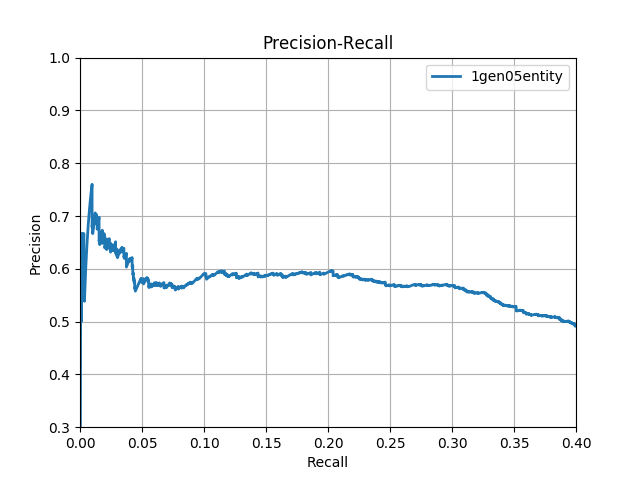
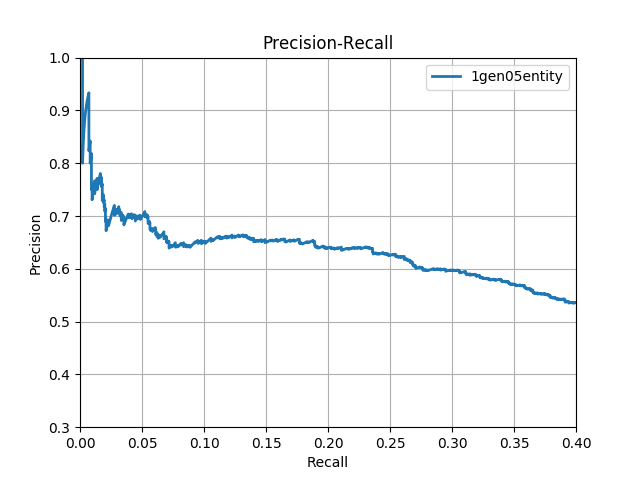
not mask unused

Changed region(s): [[0.125, 0.125, 0.8125, 0.6562], [0.7812, 0.5938, 0.875, 0.6562], [0.8438, 0.625, 0.9062, 0.6875]]

diff --git a/code/dataloader.py b/code/dataloader.py
@@ -111,9 +111,9 @@ class Dataloader:
 
             # process data
             self.instance_tot = len(data)
-            self.data_word = np.zeros((self.instance_tot, Config.sen_len), dtype=int)
-            self.data_pos1 = np.zeros((self.instance_tot, Config.sen_len), dtype=int)
-            self.data_pos2 = np.zeros((self.instance_tot, Config.sen_len), dtype=int)
+            # self.data_word = np.zeros((self.instance_tot, Config.sen_len), dtype=int)
+            # self.data_pos1 = np.zeros((self.instance_tot, Config.sen_len), dtype=int)
+            # self.data_pos2 = np.zeros((self.instance_tot, Config.sen_len), dtype=int)
             self.data_length = np.zeros((self.instance_tot, ), dtype=int)
             self.data_query = np.zeros((self.instance_tot, ), dtype=int)
             self.data_knowledge = np.zeros((self.instance_tot, Config.rel_num), dtype=float)
@@ -121,131 +121,129 @@ class Dataloader:
             self.data_input_ids = np.zeros((self.instance_tot, Config.sen_len), dtype=int)
             self.data_attention_mask = np.zeros((self.instance_tot, Config.sen_len), dtype=int)
             # for decoder
-            self.data_decoder_input_ids = np.zeros((self.instance_tot, Config.sen_len), dtype=int)
-            self.data_decoder_attention_mask = np.zeros((self.instance_tot, Config.sen_len), dtype=int)
+            # self.data_decoder_input_ids = np.zeros((self.instance_tot, Config.sen_len), dtype=int)
+            # self.data_decoder_attention_mask = np.zeros((self.instance_tot, Config.sen_len), dtype=int)
             self.data_token_mask = np.ones((self.instance_tot, Config.sen_len), dtype=int)
             self.data_between_entity_mask = np.zeros((self.instance_tot, Config.sen_len), dtype=int)
-            self.data_governor_mask = np.zeros((self.instance_tot, Config.sen_len), dtype=int)
+            # self.data_governor_mask = np.zeros((self.instance_tot, Config.sen_len), dtype=int)
 
             def _process_loop(i):
                 instance = data[i]
-                words = instance["sentence"].lower().split()
-                sentence = ''
-                for word in words:
-                    sentence += word 
-                    sentence += ' '
                 head = instance["head"]["word"]
                 tail = instance["tail"]["word"]
-                # try:
-                #     self.data_query[i] = rel2id[instance["relation"]]
-                # except:
-                #     self.data_query[i] = 0
-                #     print("relation error 1")
+                sentence = instance["sentence"]
+                try:
+                    self.data_query[i] = rel2id[instance["relation"]]
+                except:
+                    self.data_query[i] = 0
+                    print("relation error 1")
                 
-                p1 = sentence.find(' ' + head + ' ')
-                p2 = sentence.find(' ' + tail + ' ')
-                if p1 == -1:
-                    if sentence[:len(head) + 1] == head + " ":
-                        p1 = 0
-                    elif sentence[-len(head) - 1:] == " " + head:
-                        p1 = len(sentence) - len(head)
-                    else:
-                        p1 = 0 # shouldn't happen
-                else:
-                    p1 += 1
-                if p2 == -1:
-                    if sentence[:len(tail) + 1] == tail + " ":
-                        p2 = 0
-                    elif sentence[-len(tail) - 1:] == " " + tail:
-                        p2 = len(sentence) - len(tail)
-                    else:
-                        p2 = 0 # shouldn't happen
-                else:
-                    p2 += 1
+                # words = instance["sentence"].lower().split()
+                # sentence = ''
+                # for word in words:
+                #     sentence += word 
+                #     sentence += ' '
+                # p1 = sentence.find(' ' + head + ' ')
+                # p2 = sentence.find(' ' + tail + ' ')
+                # if p1 == -1:
+                #     if sentence[:len(head) + 1] == head + " ":
+                #         p1 = 0
+                #     elif sentence[-len(head) - 1:] == " " + head:
+                #         p1 = len(sentence) - len(head)
+                #     else:
+                #         p1 = 0 # shouldn't happen
+                # else:
+                #     p1 += 1
+                # if p2 == -1:
+                #     if sentence[:len(tail) + 1] == tail + " ":
+                #         p2 = 0
+                #     elif sentence[-len(tail) - 1:] == " " + tail:
+                #         p2 = len(sentence) - len(tail)
+                #     else:
+                #         p2 = 0 # shouldn't happen
+                # else:
+                #     p2 += 1
 
-                words = sentence.split()
-                cur_ref_data_word = self.data_word[i]         
-                cur_pos = 0
-                pos1 = -1
-                pos2 = -1
-                for j, word in enumerate(words):
-                    if j < Config.sen_len:
-                        word = word.lower()
-                        if word in word2id:
-                            cur_ref_data_word[j] = word2id[word]
-                        else:
-                            cur_ref_data_word[j] = 1
-                    if cur_pos == p1:
-                        pos1 = j
-                        p1 = -1
-                    if cur_pos == p2:
-                        pos2 = j
-                        p2 = -1
-                    cur_pos += len(word) + 1
-                for j in range(j + 1, Config.sen_len):
-                    cur_ref_data_word[j] = 0
-                # self.data_length[i] = len(words)
-                # if len(words) > Config.sen_len:
-                    # self.data_length[i] = Config.sen_len
-                if pos1 == -1 or pos2 == -1:
-                    raise Exception("[ERROR] Position error, index = {}, sentence = {}, head = {}, tail = {}".format(i, sentence, head, tail))
-                if pos1 >= Config.sen_len:
-                    pos1 = Config.sen_len - 1
-                if pos2 >= Config.sen_len:
-                    pos2 = Config.sen_len - 1
-                for j in range(Config.sen_len):
-                    self.data_pos1[i][j] = j - pos1 + Config.sen_len
-                    self.data_pos2[i][j] = j - pos2 + Config.sen_len
+                # words = sentence.split()
+                # cur_ref_data_word = self.data_word[i]         
+                # cur_pos = 0
+                # pos1 = -1
+                # pos2 = -1
+                # for j, word in enumerate(words):
+                #     if j < Config.sen_len:
+                #         word = word.lower()
+                #         if word in word2id:
+                #             cur_ref_data_word[j] = word2id[word]
+                #         else:
+                #             cur_ref_data_word[j] = 1
+                #     if cur_pos == p1:
+                #         pos1 = j
+                #         p1 = -1
+                #     if cur_pos == p2:
+                #         pos2 = j
+                #         p2 = -1
+                #     cur_pos += len(word) + 1
+                # for j in range(j + 1, Config.sen_len):
+                #     cur_ref_data_word[j] = 0
+                # if pos1 == -1 or pos2 == -1:
+                #     raise Exception("[ERROR] Position error, index = {}, sentence = {}, head = {}, tail = {}".format(i, sentence, head, tail))
+                # if pos1 >= Config.sen_len:
+                #     pos1 = Config.sen_len - 1
+                # if pos2 >= Config.sen_len:
+                #     pos2 = Config.sen_len - 1
+                # for j in range(Config.sen_len):
+                #     self.data_pos1[i][j] = j - pos1 + Config.sen_len
+                #     self.data_pos2[i][j] = j - pos2 + Config.sen_len
                 
-                # # for bert encoder
+                # for bert encoder
+                bert_tokens = tokenizer.tokenize(sentence)
+                head_tokens = tokenizer.tokenize(head)
+                tail_tokens = tokenizer.tokenize(tail)
+                head_pos = bert_tokens.index(head_tokens[0])
+                bert_tokens.insert(head_pos, "[unused0]")
+                bert_tokens.insert(head_pos+len(head_tokens)+1, "[unused1]")
+                tail_pos = bert_tokens.index(tail_tokens[0])
+                bert_tokens.insert(tail_pos, "[unused2]")
+                bert_tokens.insert(tail_pos+len(tail_tokens)+1, "[unused3]")
+                bert_tokens.insert(0, "[CLS]")
+                bert_tokens.append("[SEP]")
+                length = min(len(bert_tokens), Config.sen_len)
+                self.data_input_ids[i][0:length] = tokenizer.convert_tokens_to_ids(bert_tokens[0:length])
+                self.data_attention_mask[i][0:length] = 1
+                self.data_length[i] = length                
+                # for mask
                 # bert_tokens = tokenizer.tokenize(sentence)
-                # head_tokens = tokenizer.tokenize(head)
-                # tail_tokens = tokenizer.tokenize(tail)
-                # head_pos = bert_tokens.index(head_tokens[0])
-                # bert_tokens.insert(head_pos, "[unused0]")
-                # bert_tokens.insert(head_pos+len(head_tokens)+1, "[unused1]")
-                # tail_pos = bert_tokens.index(tail_tokens[0])
-                # bert_tokens.insert(tail_pos, "[unused2]")
-                # bert_tokens.insert(tail_pos+len(tail_tokens)+1, "[unused3]")
                 # bert_tokens.insert(0, "[CLS]")
                 # bert_tokens.append("[SEP]")
-                # length = min(len(bert_tokens), Config.sen_len)
-                # self.data_input_ids[i][0:length] = tokenizer.convert_tokens_to_ids(bert_tokens[0:length])
-                # self.data_attention_mask[i][0:length] = 1
-                # self.data_length[i] = length                
-                # # for mask
-                # bert_tokens = tokenizer.tokenize(sentence)
-                # bert_tokens.insert(0, "[CLS]")
-                # bert_tokens.append("[SEP]")
-                # head_pos = bert_tokens.index(head_tokens[0])
-                # tail_pos = bert_tokens.index(tail_tokens[0])
                 # length = min(len(bert_tokens), Config.sen_len)
                 # self.data_decoder_input_ids[i][0:length] = tokenizer.convert_tokens_to_ids(bert_tokens[0:length])
                 # self.data_decoder_attention_mask[i][0:length] = 1
-                # self.data_token_mask[i][head_pos:head_pos+len(head_tokens)] = 0
-                # self.data_token_mask[i][tail_pos:tail_pos+len(tail_tokens)] = 0
-                # if head_pos < tail_pos:
-                #     fir_pos = head_pos
-                #     sec_pos = tail_pos
-                #     len_fir = len(head_tokens)
-                # else:
-                #     fir_pos = tail_pos
-                #     sec_pos = head_pos
-                #     len_fir = len(tail_tokens)
-                # self.data_between_entity_mask[i][fir_pos+len_fir:sec_pos] = 1
+                head_pos = bert_tokens.index(head_tokens[0])
+                tail_pos = bert_tokens.index(tail_tokens[0])
+                self.data_token_mask[i][head_pos-1:head_pos+len(head_tokens)+1] = 0
+                self.data_token_mask[i][tail_pos-1:tail_pos+len(tail_tokens)+1] = 0
+                if head_pos < tail_pos:
+                    fir_pos = head_pos
+                    sec_pos = tail_pos
+                    len_fir = len(head_tokens)
+                else:
+                    fir_pos = tail_pos
+                    sec_pos = head_pos
+                    len_fir = len(tail_tokens)
+                self.data_between_entity_mask[i][fir_pos+len_fir+1:sec_pos-1] = 1
 
-                # # knowledge 
-                # entities = instance["head"]["id"]+"#"+instance["tail"]["id"]
-                # rels = knowledge[entities]
-                # rel_num = len(rels)
-                # # tot_prop = 1 if rel_num == 1 and rels[0] == "NA" else 0.95
-                # # na_prop = 0 if rel_num == 1 and rels[0] == "NA" else 0.05 
-                # for rel in rels:
-                #     try:
-                #         self.data_knowledge[i][rel2id[rel]] = 1 / rel_num
-                #     except:
-                #         self.data_knowledge[i][0] += 1 / rel_num
-                #         print("relation error 2")
+                # knowledge 
+                entities = instance["head"]["id"]+"#"+instance["tail"]["id"]
+                rels = knowledge[entities]
+                rel_num = len(rels)
+                # tot_prop = 1 if rel_num == 1 and rels[0] == "NA" else 0.95
+                # na_prop = 0 if rel_num == 1 and rels[0] == "NA" else 0.05 
+                for rel in rels:
+                    try:
+                        self.data_knowledge[i][rel2id[rel]] = 1 / rel_num
+                    except:
+                        self.data_knowledge[i][0] += 1 / rel_num
+                        print("relation error 2")
                 # self.data_knowledge[i][0] += na_prop
 
             print("begin multiple thread processing...")
@@ -253,21 +251,21 @@ class Dataloader:
             pool.map(_process_loop, range(0, self.instance_tot))
 
             # save array
-            np.save(os.path.join("../data/pre_processed_data", "word_vec.npy"), self.word_vec)
-            np.save(os.path.join("../data/pre_processed_data", dataset+"_"+mode+"_word.npy"), self.data_word)
-            np.save(os.path.join("../data/pre_processed_data", dataset+"_"+mode+"_pos1.npy"), self.data_pos1)
-            np.save(os.path.join("../data/pre_processed_data", dataset+"_"+mode+"_pos2.npy"), self.data_pos2)
-            # np.save(os.path.join("../data/pre_processed_data", dataset+"_"+mode+"_label.npy"), self.data_query)
-            # np.save(os.path.join("../data/pre_processed_data", dataset+"_"+mode+"_length.npy"), self.data_length)
-            # np.save(os.path.join("../data/pre_processed_data", dataset+"_"+mode+"_knowledge.npy"), self.data_knowledge)
-            # np.save(os.path.join("../data/pre_processed_data", dataset+"_"+mode+"_input_ids.npy"), self.data_input_ids)
-            # np.save(os.path.join("../data/pre_processed_data", dataset+"_"+mode+"_attention_mask.npy"), self.data_attention_mask)
+            # np.save(os.path.join("../data/pre_processed_data", "word_vec.npy"), self.word_vec)
+            # np.save(os.path.join("../data/pre_processed_data", dataset+"_"+mode+"_word.npy"), self.data_word)
+            # np.save(os.path.join("../data/pre_processed_data", dataset+"_"+mode+"_pos1.npy"), self.data_pos1)
+            # np.save(os.path.join("../data/pre_processed_data", dataset+"_"+mode+"_pos2.npy"), self.data_pos2)
+            np.save(os.path.join("../data/pre_processed_data", dataset+"_"+mode+"_label.npy"), self.data_query)
+            np.save(os.path.join("../data/pre_processed_data", dataset+"_"+mode+"_length.npy"), self.data_length)
+            np.save(os.path.join("../data/pre_processed_data", dataset+"_"+mode+"_knowledge.npy"), self.data_knowledge)
+            np.save(os.path.join("../data/pre_processed_data", dataset+"_"+mode+"_input_ids.npy"), self.data_input_ids)
+            np.save(os.path.join("../data/pre_processed_data", dataset+"_"+mode+"_attention_mask.npy"), self.data_attention_mask)
             # np.save(os.path.join("../data/pre_processed_data", dataset+"_"+mode+"_decoder_input_ids.npy"), self.data_decoder_input_ids)
             # np.save(os.path.join("../data/pre_processed_data", dataset+"_"+mode+"_decoder_attention_mask.npy"), self.data_decoder_attention_mask)
-            # np.save(os.path.join("../data/pre_processed_data", dataset+"_"+mode+"_token_mask.npy"), self.data_token_mask)
-            # np.save(os.path.join("../data/pre_processed_data", dataset+"_"+mode+"_between_entity_mask.npy"), self.data_between_entity_mask) 
-            # json.dump(self.entpair2scope, open(os.path.join("../data/pre_processed_data", dataset+"_"+mode+"_entpair2scope.json"), 'w'))
-            # json.dump(self.relfact2scope, open(os.path.join("../data/pre_processed_data", dataset+"_"+mode+"_relfact2scope.json"), "w"))
+            np.save(os.path.join("../data/pre_processed_data", dataset+"_"+mode+"_token_mask.npy"), self.data_token_mask)
+            np.save(os.path.join("../data/pre_processed_data", dataset+"_"+mode+"_between_entity_mask.npy"), self.data_between_entity_mask) 
+            json.dump(self.entpair2scope, open(os.path.join("../data/pre_processed_data", dataset+"_"+mode+"_entpair2scope.json"), 'w'))
+            json.dump(self.relfact2scope, open(os.path.join("../data/pre_processed_data", dataset+"_"+mode+"_relfact2scope.json"), "w"))
             print("end pre-process")
             end_time = time.time()
             print(end_time-start_time)
@@ -349,9 +347,9 @@ class Dataloader:
                         self.to_tensor(self.data_attention_mask[index][:, :max_length]), \
                          self.to_tensor(self.data_mask[index][:, :max_length]), \
                           self.to_tensor(self.data_query[index]), \
-                           self.to_tensor(self.data_knowledge[index]), \
-                            self.to_tensor(self.data_decoder_input_ids[index][:, :max_length]), \
-                             self.to_tensor(self.data_decoder_attention_mask[index][:, :max_length])
+                           self.to_tensor(self.data_knowledge[index])
+                            # self.to_tensor(self.data_decoder_input_ids[index][:, :max_length]), \
+                            #  self.to_tensor(self.data_decoder_attention_mask[index][:, :max_length])
             else:
                 return self.to_tensor(self.data_input_ids[index][:, :max_length]), \
                         self.to_tensor(self.data_attention_mask[index][:, :max_length])

diff --git a/code/model.py b/code/model.py
@@ -32,23 +32,23 @@ class LatentRE(nn.Module):
                   label=None,
                   input_ids=None, 
                   attention_mask=None, 
-                  decoder_input_ids=None,
-                  decoder_attention_mask=None,
+                #   decoder_input_ids=None,
+                #   decoder_attention_mask=None,
                   mask=None,
                   query=None,
                   knowledge=None, 
                   scope=None):
         if Config.training:
             text = self.encoder(input_ids, attention_mask)
-            logit, latent, neg_latent = self.selector(text, scope, query)
+            logit, latent = self.selector(text, scope, query)
             ce_loss = self.loss.ce_loss(logit, query)
             kl_loss = self.loss.kl_loss(logit, knowledge)
             if Config.latent:
-                gen_loss = self.decoder(decoder_input_ids, decoder_attention_mask, mask, latent)
-                margin_gen_loss = self.decoder_margin(decoder_input_ids, decoder_attention_mask, mask, neg_latent)
-                loss = kl_loss + gen_loss * Config.gen_loss_scale + ce_loss * Config.ce_loss_scale - margin_gen_loss + 4.0
-                return torch.nn.functional.relu(loss)
-                # return kl_loss + gen_loss * Config.gen_loss_scale + ce_loss * Config.ce_loss_scale
+                gen_loss = self.decoder(input_ids, attention_mask, mask, latent)
+                # margin_gen_loss = self.decoder_margin(decoder_input_ids, decoder_attention_mask, mask, neg_latent)
+                # loss = kl_loss + gen_loss * Config.gen_loss_scale + ce_loss * Config.ce_loss_scale - margin_gen_loss + 4.0
+                # return torch.nn.functional.relu(loss)
+                return kl_loss + gen_loss * Config.gen_loss_scale + ce_loss * Config.ce_loss_scale
             else:
                 return kl_loss * Config.kl_loss_scale + ce_loss * Config.ce_loss_scale
         else:

diff --git a/code/selector.py b/code/selector.py
@@ -44,7 +44,7 @@ class Selector(nn.Module):
 
         """for mask na relation embedding"""
         random.seed(Config.seed)
-        torch.manual_seed(args.seed)
+        torch.manual_seed(Config.seed)
         self.na_mask = nn.Parameter(torch.ones(Config.rel_num), requires_grad=False)
         self.na_mask[0] = 0
         
@@ -77,11 +77,11 @@ class Selector(nn.Module):
                 
                 # add negative sample 
                 # `(batch)`
-                pos_list = torch.argmax(logit, 1)
-                neg_list = (torch.randint(1, 53, (pos_list.size()[0],)) + pos_list) % 53
-                neg_latent = self.rel_mat.transpose(0,1)[neg_list]
+                # pos_list = torch.argmax(logit, 1)
+                # neg_list = (torch.randint(1, 53, (pos_list.size()[0],), device=torch.cuda) + pos_list) % 53
+                # neg_latent = self.rel_mat.transpose(0,1)[neg_list]
 
-                return logit, latent, neg_latent
+                return logit, latent
         else:
             if Config.eval_bag:
                 bag_logit = []

diff --git a/code/main.py b/code/main.py
@@ -97,8 +97,8 @@ def train(args, model, train_dataloader, dev_dataloader, train_ins_tot, dev_ins_
                 'mask':batch_data[2].cuda(),
                 'query':batch_data[3].cuda(),
                 'knowledge':batch_data[4].cuda().float(),
-                'decoder_input_ids':batch_data[5].cuda(),
-                'decoder_attention_mask':batch_data[6].cuda()
+                # 'decoder_input_ids':batch_data[5].cuda(),
+                # 'decoder_attention_mask':batch_data[6].cuda()
             }        
             loss = parallel_model(**inputs)
             loss = loss.mean()
